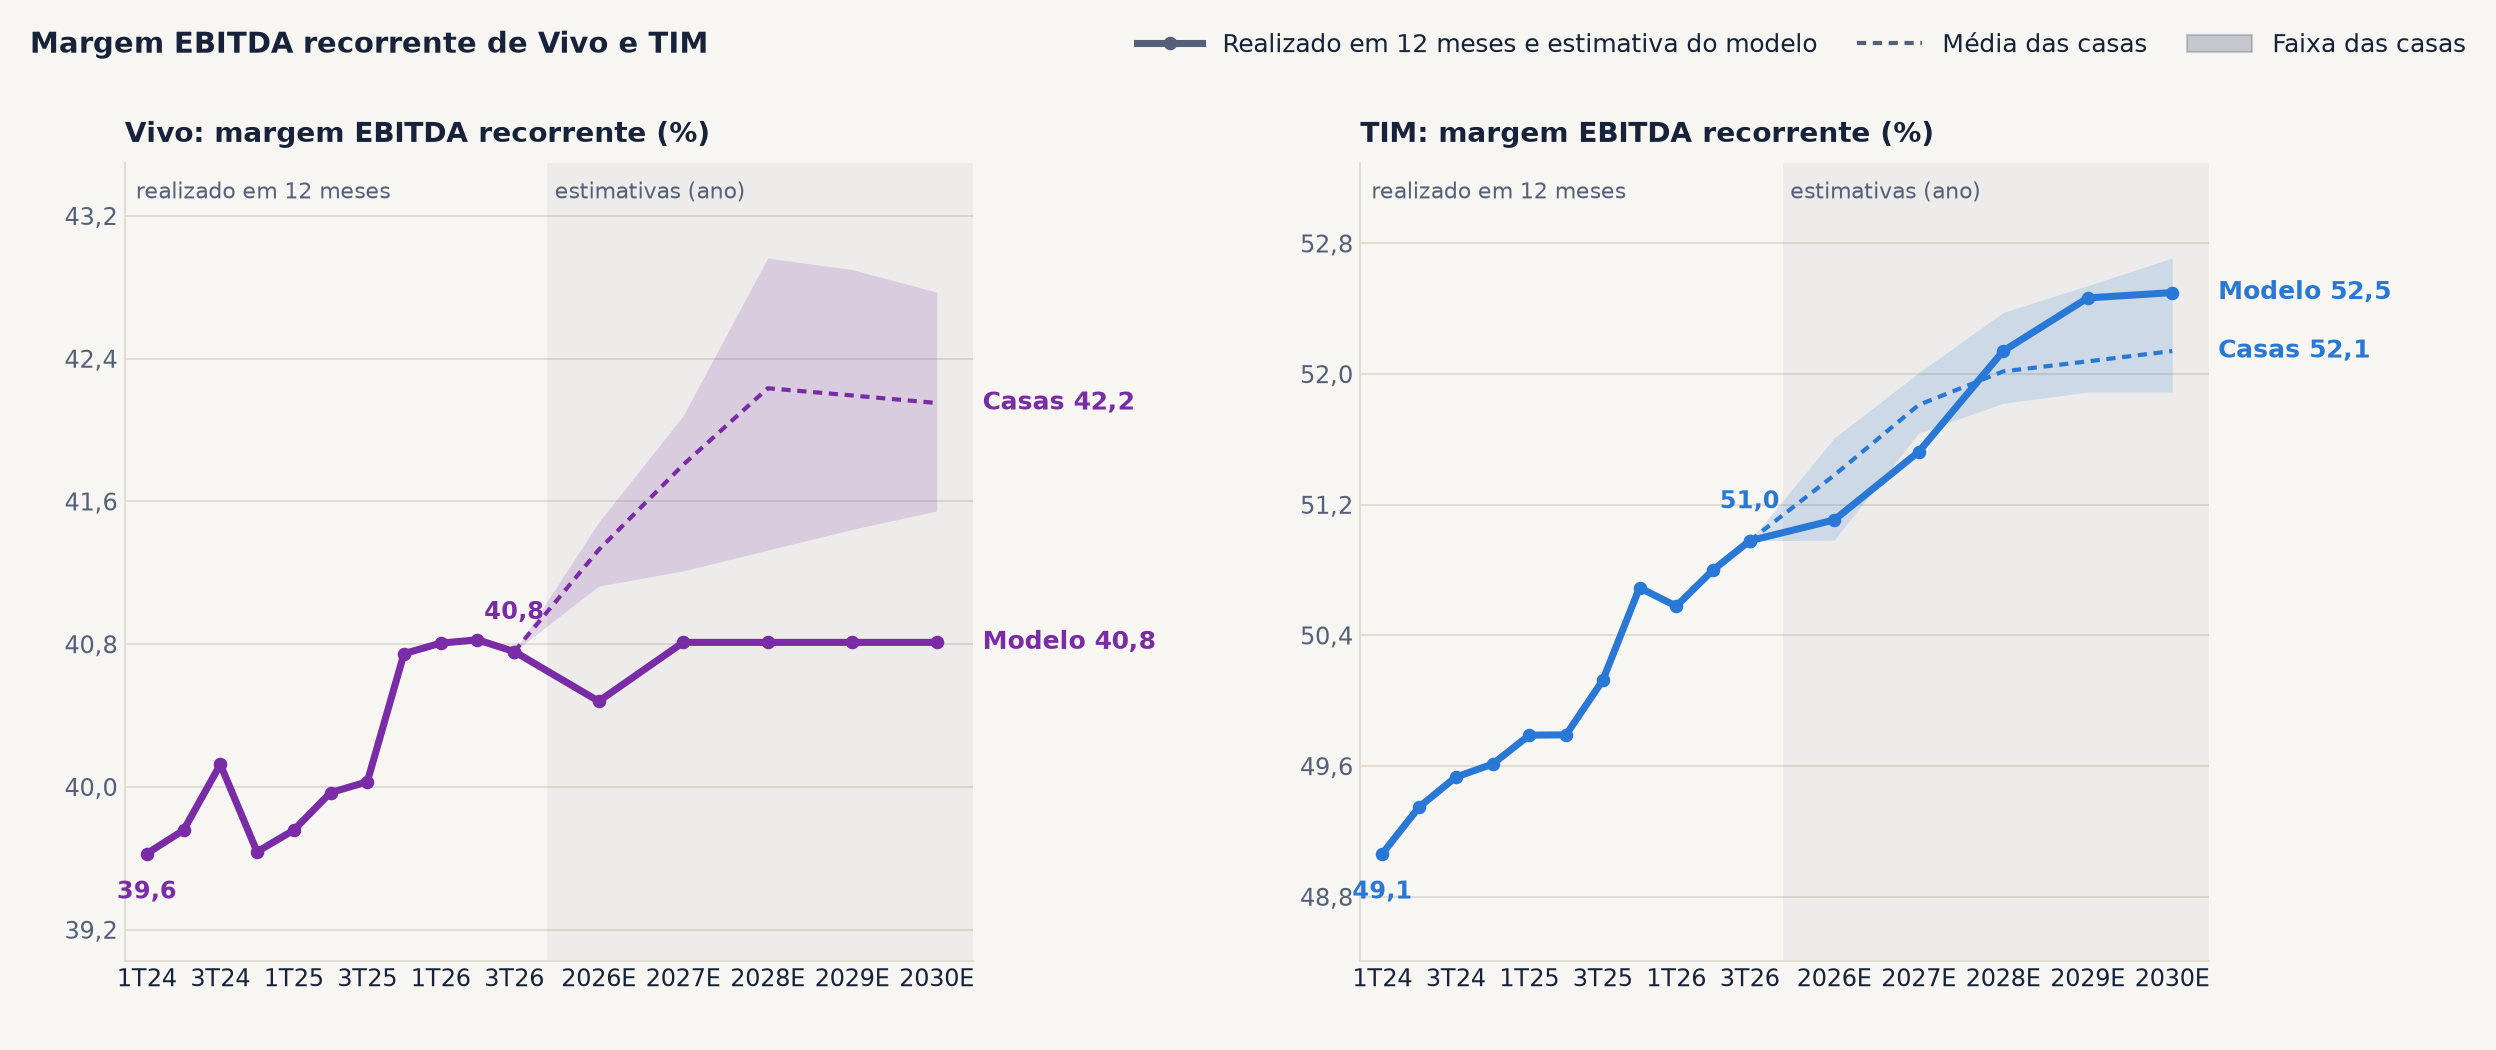
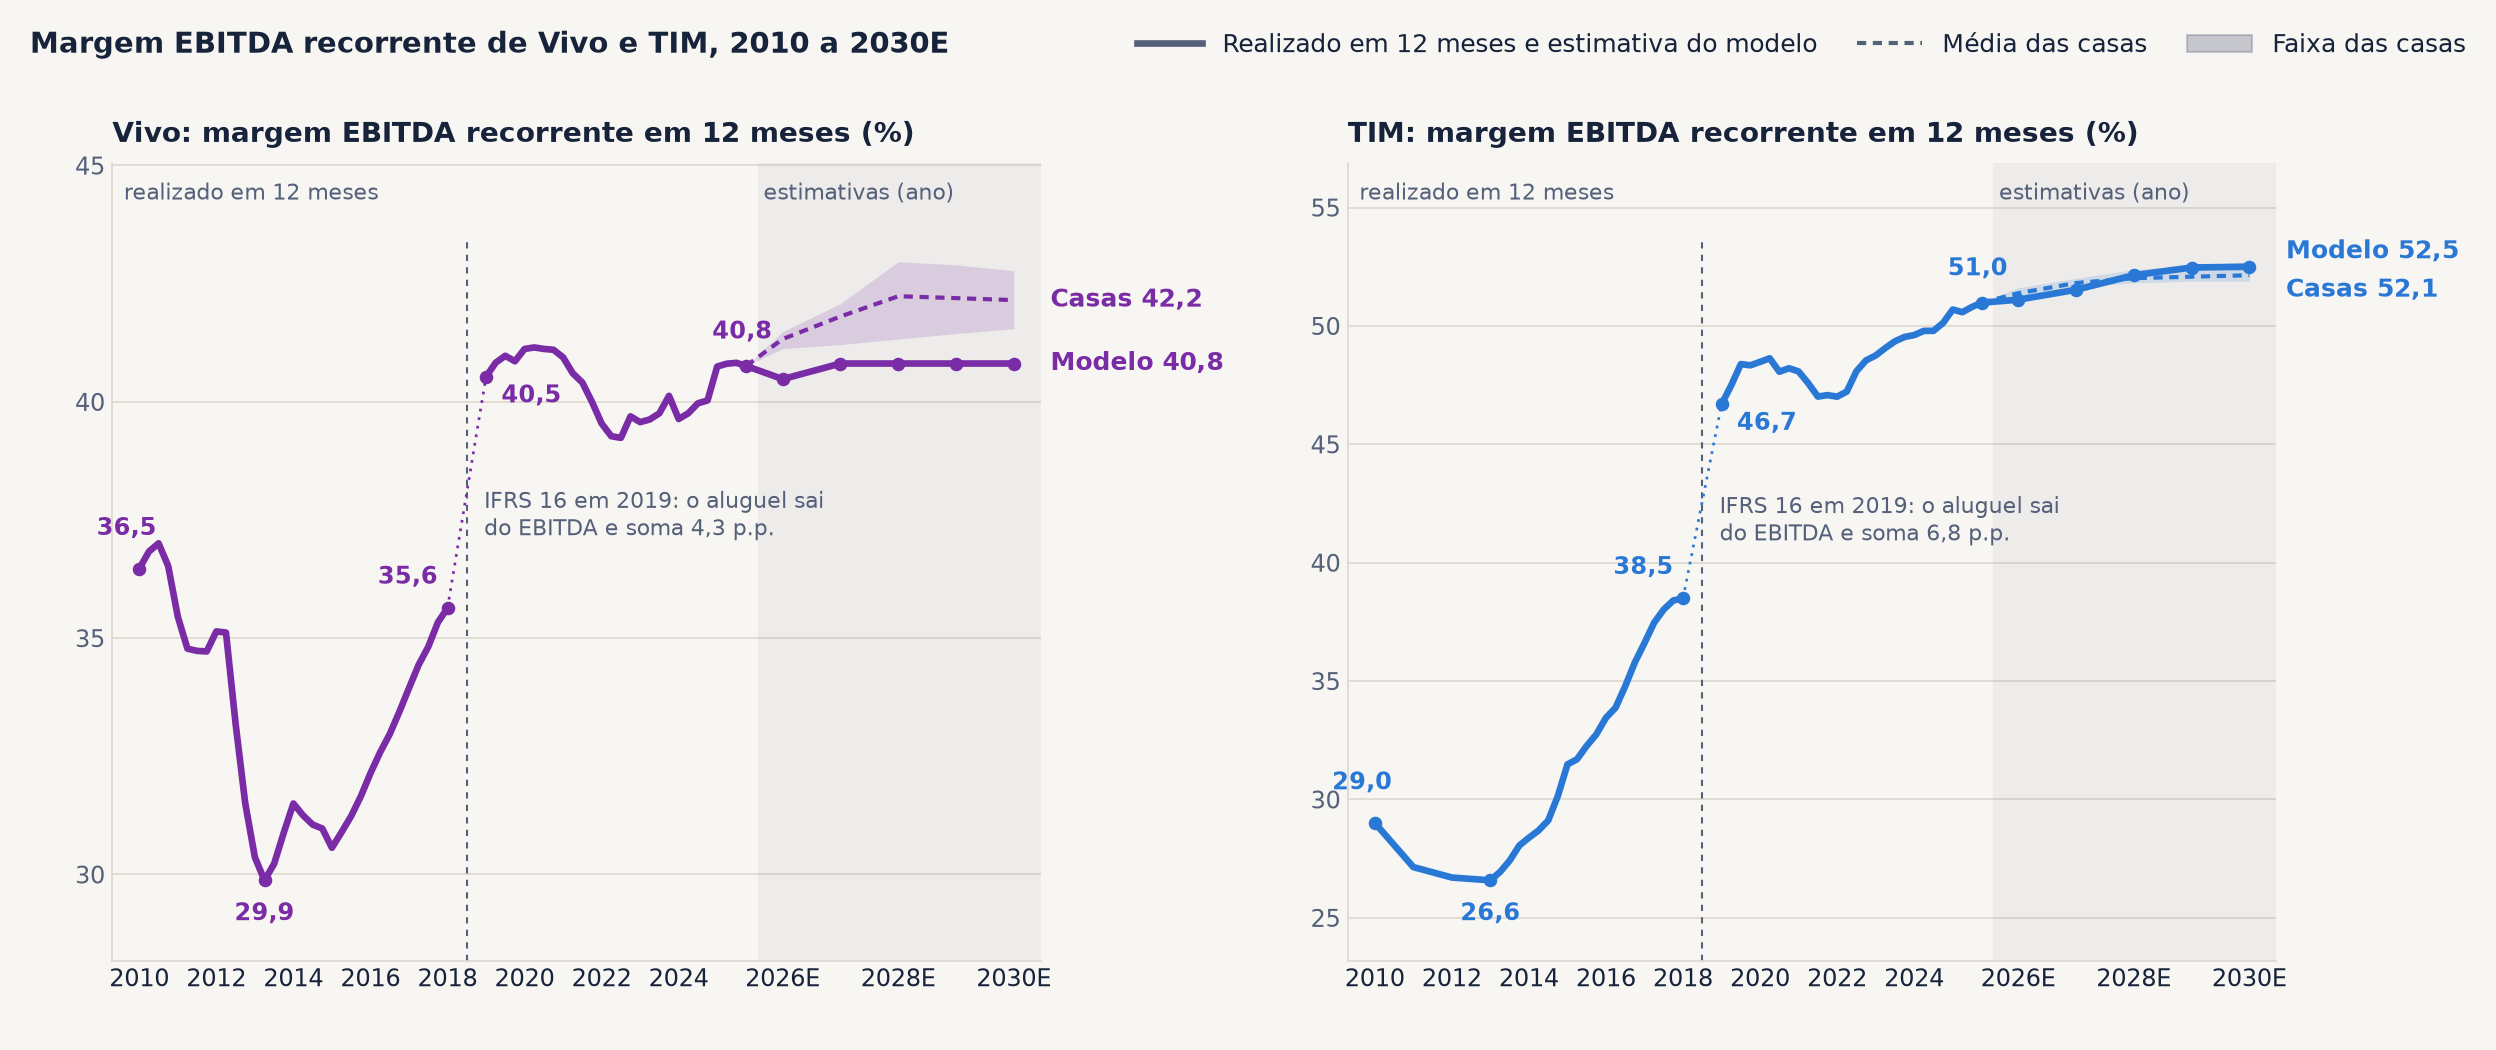
v4.2 - 24/11/2026 21:04 - slide 6: margem EBITDA em 12 meses desde 2010
Serie longa (Vivo desde 2010 pelo modelo; TIM 2010-12 pela DFP, 2013-18 pela
planilha de RI, 2019 em diante pelo modelo), quebrada na adocao do IFRS 16 em
2019, com o efeito da norma medido pela pro forma das companhias.

diff --git a/index.html b/index.html
@@ -40,7 +40,7 @@ h1, h2, h3 { font-family:'Space Grotesk', Arial, sans-serif; }
 <div id="palco">
 <section id="capa" class="capa" data-transition="fade">
 <div>
-<p class="chip">v4.1 · 24/11/2026 20:49</p>
+<p class="chip">v4.2 · 24/11/2026 21:04</p>
 </div>
 <div>
 <h1>Telecom Brasil: Vivo e TIM</h1>
@@ -77,11 +77,11 @@ h1, h2, h3 { font-family:'Space Grotesk', Arial, sans-serif; }
 <aside>Premissas do modelo. IPCA: 5,1% em 2026E, 6,0% em 2027E, 7,0% em 2028E e 6,0% em 2029E e 2030E (DRE do modelo). PIB real: 1,7% em 2026E, 0,7% em 2027E, -1,0% em 2028E e 1,0% de 2029E em diante (premissa informada em 24/11/2026; ainda não está nas planilhas). PIB nominal resultante: 6,9%, 6,7%, 5,9%, 7,1% e 7,1%. Mercado. Focus de 19/11/2026, medianas: IPCA de 5,2%, 5,1%, 4,0%, 4,0% e 4,0%, com respostas entre 3,0% e 6,0% de 2028 em diante; PIB real de 1,7%, 1,0%, 1,7%, 2,0% e 2,0%; PIB nominal de 6,9%, 6,2%, 5,8%, 6,1% e 6,0%, calculado com o IPCA como deflator. O IPCA de 7,0% do modelo em 2028E fica acima da resposta mais alta do Focus. Receita líquida. Vivo no modelo: 7,3% em 2026E e 5,7% de 2027E a 2030E, contra a média das casas de 7,2%, 5,9%, 5,0%, 4,7% e 4,4% (faixa de 3,3% a 5,1% em 2030E). TIM no modelo, com a receita líquida travada em 5,0% ao ano de 2027E em diante (a receita móvel fecha a conta, com 4,6% em 2027E, 4,7% em 2028E, 4,8% em 2029E e perto de 5,0% de 2030E em diante): 5,5%, 5,0%, 5,0%, 5,0% e 5,0%, contra 5,6%, 4,3%, 4,0%, 3,8% e 3,8% nas casas (faixa de 3,4% a 4,0% em 2030E); o modelo fica 0,7 a 1,2 ponto acima da média e 1,0 ponto acima da casa mais alta em 2030E. Receita sem aparelhos (receita líquida menos receita de aparelhos, calculada fora dos modelos; confere com a linha de receita de serviços): Vivo 7,1% em 2024, 6,8% em 2025, 6,1% em 2026E e 5,7% de 2027E em diante, contra 7,3% da receita total em 2026E, quando os aparelhos crescem 24,6%; TIM 6,4%, 5,2%, 5,5% e 5,0% de 2027E em diante, com a diferença maior em 2025, quando os aparelhos caem 10,6%. Em termos reais, com a inflação de cada um: a receita da Vivo no modelo cai 0,3% em 2027E, 1,2% em 2028E e 0,3% em 2029E e 2030E, e nas casas cresce 0,7%, 1,0%, 0,6% e 0,4%; a da TIM no modelo cai 0,9%, 1,9%, 0,9% e 0,9%, e nas casas fica entre -0,7% e zero. Contra o PIB nominal, a receita cresce menos nos dois: Vivo 1,3 ponto abaixo em 2030E no modelo e 1,6 no mercado; TIM 2,1 e 2,2 pontos abaixo. Realizado: IPCA de dezembro contra dezembro e PIB nominal em 12 meses (séries 433 e 4382 do Banco Central); o slide 2 usa o IPCA pela média do ano. O pico da receita em 2022 e 2023 inclui os clientes da Oi e o corte do ICMS.</aside>
 </section>
 <section id="margem" data-transition="fade">
-<p class="olho">2 · MARGEM EBITDA EM 12 MESES: MODELO CONTRA AS CASAS</p>
-<h2 class="titulo">Margem EBITDA em 12 meses: Vivo parada em 40,8% e TIM em 51,0%; o modelo mantém a Vivo em 40,8%, 1,3 ponto abaixo das casas, e leva a TIM a 52,5%, 0,4 acima</h2>
-<img class="graf" src="img/v6_margem.png" alt="Dois gráficos, um da Vivo e um da TIM, com a margem EBITDA recorrente em 12 meses do 1T24 ao 3T26 e as estimativas anuais de 2026 a 2030: linha cheia para o modelo, tracejada para a média das casas e a faixa das casas do mínimo ao máximo">
-<p class="fonte">Fonte: planilhas de RI e modelos de Vivo e TIM de 24/11/2026. EBITDA recorrente, sem venda de ativos, sobre a receita líquida. Casas: Itaú BBA, BBI, BTG, Santander e, na Vivo, UBS (até 2029E).</p>
-<aside>Vivo, margem em 12 meses: 39,6% no 1T24, 40,0% no 3T25, 40,7% no 4T25 e 40,8% nos três trimestres de 2026. O modelo põe 40,5% em 2026E e 40,8% de 2027E a 2030E. Casas: média de 41,3% em 2026E, 41,8% em 2027E e 42,2% de 2028E a 2030E, com faixa de 41,5% (BBI) a 42,8% (BTG) em 2030E; o modelo fica abaixo de todas as casas em todos os anos, 0,8 ponto abaixo da média em 2026E e 1,3 em 2030E. TIM, margem em 12 meses: 49,1% no 1T24, 50,1% no 3T25, 50,7% no 4T25 e 51,0% no 3T26. O modelo põe 51,1% em 2026E, 51,5%, 52,1%, 52,5% e 52,5% em 2030E. Casas: média de 51,4%, 51,8%, 52,0%, 52,1% e 52,1%, com faixa de 51,9% (Santander) a 52,7% (Itaú BBA) em 2030E; o modelo fica 0,3 ponto abaixo da média em 2026E e 2027E e 0,4 acima em 2029E e 2030E, dentro da faixa. Os pontos realizados são a margem acumulada em quatro trimestres; os estimados são a margem do ano. A margem depois do arrendamento conta outra história (Vivo de 33,5% em 2021 para 31,8% em 2026E; TIM de 36,9% para 39,0%) e não está neste slide.</aside>
+<p class="olho">2 · MARGEM EBITDA EM 12 MESES DESDE 2010: MODELO CONTRA AS CASAS</p>
+<h2 class="titulo">Margem EBITDA desde 2010: a TIM ganha 12 pontos até 2018 e mais 4 depois do IFRS 16; a Vivo recupera 6 pontos até 2018 e fica parada perto de 41% desde 2019</h2>
+<img class="graf" src="img/v6_margem.png" alt="Dois gráficos, um da Vivo e um da TIM, com a margem EBITDA recorrente em 12 meses de 2010 ao 3T26, quebrada em 2019 pela adoção do IFRS 16, e as estimativas anuais de 2026 a 2030: linha cheia para o modelo, tracejada para a média das casas e a faixa das casas do mínimo ao máximo">
+<p class="fonte">Fonte: planilhas de RI, DFP (CVM) e modelos de 24/11/2026. Recorrente pela definição do modelo (sem venda de ativos e não recorrentes); na Vivo, igual ao da companhia até 2021. TIM: contábil em 2010-12 e normalizado da companhia em 2013-18. Casas: Itaú BBA, BBI, BTG, Santander e, na Vivo, UBS (até 2029E).</p>
+<aside>Vivo, margem em 12 meses antes do IFRS 16: 36,5% em 2010, 35,1% em 2012, piso de 29,9% no 1T14, 30,6% em 2015 (a GVT entra em maio de 2015), 32,1% em 2016, 33,9% em 2017 e 35,6% em 2018. Com o IFRS 16: 40,5% em 2019, 41,1% em 2020, 40,9% em 2021, 39,5% em 2022, 39,6% em 2023 e 2024, 40,7% em 2025 e 40,8% no 3T26. A pro forma sem IFRS 16 que a companhia publicou para 2019 é 36,2%: dos 4,9 pontos de alta entre 2018 e 2019, 4,3 vêm da norma e 0,6 da operação. TIM antes do IFRS 16: 29,0% em 2010, 27,1% em 2011 e 26,7% em 2012 (contábil, DFP), piso de 26,6% em 2013, 28,4% em 2014, 31,5% em 2015, 33,4% em 2016, 36,6% em 2017 e 38,5% em 2018. Com o IFRS 16: 46,7% em 2019, 48,5% em 2020, 48,1% em 2021, 47,0% em 2022, 48,7% em 2023, 49,6% em 2024, 50,7% em 2025 e 51,0% no 3T26. A pro forma sem IFRS 16 da TIM é 39,8% em 2019, 40,9% em 2020 e 39,7% em 2021: dos 8,2 pontos de alta entre 2018 e 2019, 6,8 vêm da norma e o restante da operação. Estimativas: o modelo põe a Vivo em 40,5% em 2026E e 40,8% de 2027E a 2030E, contra média das casas de 41,3%, 41,8% e 42,2% de 2028E a 2030E (faixa de 41,5% a 42,8% em 2030E); a TIM em 51,1%, 51,5%, 52,1%, 52,5% e 52,5%, contra 51,4%, 51,8%, 52,0%, 52,1% e 52,1% nas casas (faixa de 51,9% a 52,7% em 2030E). Sobre a palavra recorrente: é a definição do modelo. Na Vivo, o modelo coincide com o EBITDA recorrente da companhia até 2021; de 2022 em diante a companhia publica o recorrente igual ao contábil e o modelo tira a venda de ativos e outros itens, o que deixa a margem em 12 meses do 3T26 em 40,8% no modelo contra 42,4% no número da companhia (1,6 ponto). Na TIM, o modelo parte do EBITDA normalizado da companhia e recusa alguns ajustes: 51,0% contra 51,3% no 3T26. A comparação com as casas depende de qual base cada casa usa; a diferença de 0,8 ponto da Vivo em 2026E é menor que a diferença de definição. Os pontos realizados são a margem acumulada em quatro trimestres; os estimados são a margem do ano. O eixo dá mais espaço aos anos estimados que aos realizados.</aside>
 </section>
 <section id="ebitda-cresc" data-transition="fade">
 <p class="olho">3 · CRESCIMENTO DO EBITDA</p>

diff --git a/README.md b/README.md
@@ -1,3 +1,3 @@
 # Telecom Brasil: Vivo e TIM
 
-Deck de telecom (v4.1 · 24/11/2026 20:49): o setor contra a inflação e o PIB, receita, margem, EBITDA, capex e arrendamento, lucro, payout, Fistel e valuation de Vivo e TIM.
+Deck de telecom (v4.2 · 24/11/2026 21:04): o setor contra a inflação e o PIB, receita, margem, EBITDA, capex e arrendamento, lucro, payout, Fistel e valuation de Vivo e TIM.
